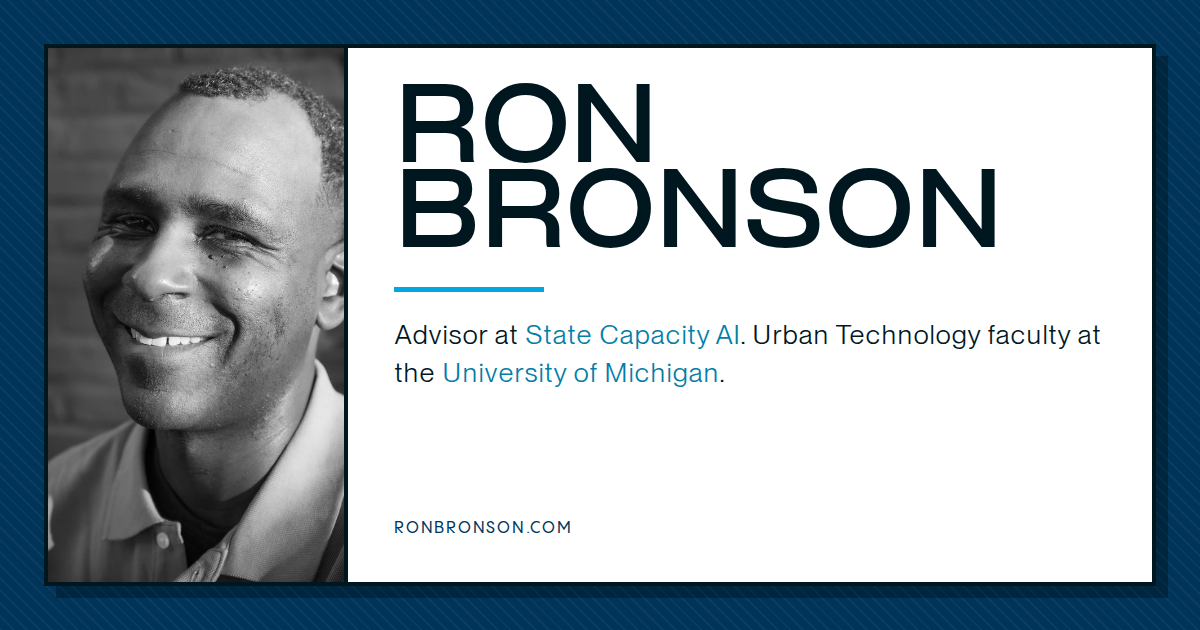
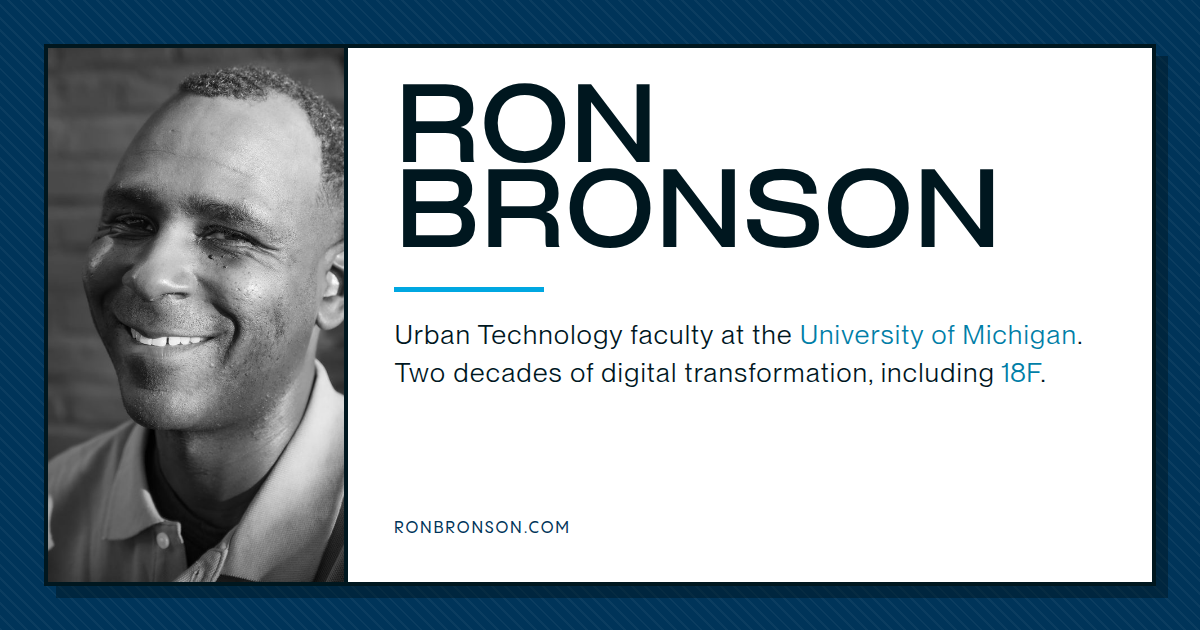
Drop State Capacity AI from the bio; add closedtab; untitle the bio module
State Capacity AI is a silent advisory role and should not have been on the
page. It was in four places, not one: the bio, <meta name="description">, the
OG/Twitter descriptions, and baked into the pixels of assets/og.png via
assets/og.html, where the card read "Advisor at State Capacity AI". All four
are updated and the card is regenerated. The occupant.ee link goes with it.

The bio module loses its header bar. It's the first thing under the masthead,
so "Introduction" only named what the reader could already see; it's now
.mod.lede — a module with a body and no title — set a step larger than .blurb.

Adds closedtab, the npm package, as its own module. This is what the year list
had no room for and the reason it came out. Copy is from the package's own npm
description and README.

The bio itself is still a holding pattern: the meta description in first
person, minus the removed clause. Two things can only come from Ron and are
left as a commented TK rather than guessed at — his own wording, and what his
role at gpo.delivery (the Global Office of Public Delivery) actually is.

Also fixes the regeneration command in og.html, which carried a
deviceScaleFactor:2 that writes a 2400x1260 file while og:image:width and
og:image:height declare 1200x630. The committed card was 1200x630, so the
documented command had not been the one used. Drops the now-unused .stamp
rule, left over with the datestamped module it belonged to.
[…]

diff --git a/index.html b/index.html
@@ -4,7 +4,7 @@
 <meta charset="utf-8" />
 <meta name="viewport" content="width=device-width, initial-scale=1" />
 <title>Ron Bronson</title>
-<meta name="description" content="Ron Bronson is an advisor at State Capacity AI, where he designed a consumer price index and labor tracker for AI spend, and a part-time Urban Technology faculty member at the University of Michigan Taubman College. Two decades leading digital transformation, including heading the design practice at 18F." />
+<meta name="description" content="Ron Bronson is a part-time Urban Technology faculty member at the University of Michigan Taubman College. Two decades leading digital transformation, including heading the design practice at 18F." />
 <link rel="canonical" href="https://ronbronson.com/" />
 
 <!-- Social card. og.png is 1200×630 (1.91:1) and generated from assets/og.html —
@@ -16,19 +16,19 @@
 <meta property="og:url" content="https://ronbronson.com/" />
 <meta property="og:locale" content="en_US" />
 <meta property="og:title" content="Ron Bronson" />
-<meta property="og:description" content="Advisor at State Capacity AI. Urban Technology faculty at the University of Michigan. Two decades leading digital transformation, including heading the design practice at 18F." />
+<meta property="og:description" content="Urban Technology faculty at the University of Michigan. Two decades leading digital transformation, including heading the design practice at 18F." />
 <meta property="og:image" content="https://ronbronson.com/assets/og.png" />
 <meta property="og:image:type" content="image/png" />
 <meta property="og:image:width" content="1200" />
 <meta property="og:image:height" content="630" />
-<meta property="og:image:alt" content="Ron Bronson — advisor at State Capacity AI and Urban Technology faculty at the University of Michigan." />
+<meta property="og:image:alt" content="Ron Bronson — Urban Technology faculty at the University of Michigan." />
 <meta property="profile:first_name" content="Ron" />
 <meta property="profile:last_name" content="Bronson" />
 <meta name="twitter:card" content="summary_large_image" />
 <meta name="twitter:title" content="Ron Bronson" />
-<meta name="twitter:description" content="Advisor at State Capacity AI. Urban Technology faculty at the University of Michigan. Two decades leading digital transformation, including heading the design practice at 18F." />
+<meta name="twitter:description" content="Urban Technology faculty at the University of Michigan. Two decades leading digital transformation, including heading the design practice at 18F." />
 <meta name="twitter:image" content="https://ronbronson.com/assets/og.png" />
-<meta name="twitter:image:alt" content="Ron Bronson — advisor at State Capacity AI and Urban Technology faculty at the University of Michigan." />
+<meta name="twitter:image:alt" content="Ron Bronson — Urban Technology faculty at the University of Michigan." />
 <link rel="preload" as="font" type="font/woff2" href="assets/fonts/MTL/PPNeueMontrealText-Book.woff2" crossorigin />
 <link rel="icon" type="image/svg+xml" href="assets/favicon.svg" />
 <link rel="icon" href="assets/favicon.ico" sizes="any" />
@@ -191,13 +191,15 @@
     width: 7px; height: 7px; background: var(--accent);
   }
 
-  /* Date stamp under a module header. */
-  .stamp {
-    display: block; margin: 0 0 clamp(11px, 1.5vw, 15px);
-    font-family: var(--ui); font-weight: 500;
-    font-size: 11.5px; letter-spacing: .1em; text-transform: uppercase;
-    color: var(--ink-2);
-  }
+  /* ── the lede ───────────────────────────────────────────────────────
+     The bio, and deliberately the only module with no header bar. It is
+     the first thing under the masthead, so a label would only name what
+     the reader can already see — you land on the site and you are
+     reading it. Set a step larger than .blurb for the same reason.
+     ──────────────────────────────────────────────────────────────── */
+  .lede .mod__b { padding: clamp(16px, 2.2vw, 25px); }
+  .lede p { margin: 0 0 .7em; font-size: clamp(17px, 1.35vw, 20px); line-height: 1.5; }
+  .lede p:last-child { margin-bottom: 0; }
 
   /* ── prose ──────────────────────────────────────────────────────────
      Short paragraphs, a few per module. Sized down from the old bio: the
@@ -437,22 +439,43 @@
 <!-- ══════════ MAIN ══════════ -->
     <div class="main main--top">
 
-      <!-- Replaces "2026 So Far", which went stale between updates and always
-           read as an incomplete list of the year. An introduction doesn't
-           expire, so nothing here should be datestamped or enumerated — if a
+      <!-- The bio. Replaces "2026 So Far", which went stale between updates and
+           always read as an incomplete list of the year. A bio has neither
+           problem, so nothing here gets a datestamp or a bullet count — if a
            line needs a year on it, it belongs on .design or .dev instead.
-           Copy is Ron's own framing, reflowed from the meta/OG description
-           into first person; keep the two in sync when either changes. -->
-      <div class="mod">
-        <h2 class="mod__t">Introduction</h2>
-        <div class="mod__b blurb">
-          <p>I&rsquo;m an advisor at
-            <a href="https://occupant.ee/indices">State Capacity AI</a>, where I designed a
-            consumer price index and labor tracker for AI spend, and part-time
+
+           No header bar on purpose: it's the first thing under the masthead
+           and titling it only named what the reader could already see.
+
+           TK — RON'S COPY. The two paragraphs below are a holding pattern, not
+           the bio: they're the existing meta/OG description turned into first
+           person, minus State Capacity AI. Two things are missing and can only
+           come from Ron, so they are not drafted here:
+             · gpo.delivery (Global Office of Public Delivery) — the current
+               engagement. Needs his one line on what the role actually is.
+             · State Capacity AI is a *silent* advisory role. It came out of the
+               bio, the meta tags and the social card. Don't reinstate it. -->
+      <div class="mod lede">
+        <div class="mod__b">
+          <p>I&rsquo;m part-time
             <a href="https://taubmancollege.umich.edu/academics/urban-and-regional-planning/bachelor-of-science-in-urban-technology/">Urban
             Technology</a> faculty at the University of Michigan&rsquo;s Taubman College.</p>
           <p>Two decades leading digital transformation, including heading the design
             practice at 18F.</p>
+        </div>
+      </div>
+
+      <!-- The reason "2026 So Far" came out: this had no place in a dated list.
+           Copy is Ron's own, from the package README and its npm description. -->
+      <div class="mod">
+        <h2 class="mod__t">closedtab</h2>
+        <div class="mod__b blurb">
+          <p>A shared record for human-agent teams. Review the work your AI agents do:
+            scaffold an Agent Action Record &mdash; Intent, Action, Judgment, Deviation,
+            Consequence, Change &mdash; score it, and reconcile it against a trace of what
+            the agent actually did. CLI + MCP.</p>
+          <p><a href="https://www.npmjs.com/package/closedtab">npm</a> &nbsp;&middot;&nbsp;
+            <a href="https://github.com/quarterback/closedtab">GitHub</a></p>
         </div>
       </div>
 

diff --git a/assets/og.html b/assets/og.html
@@ -12,12 +12,15 @@
     python3 -m http.server 8080 &
     node -e "const {chromium}=require('playwright');(async()=>{
       const b=await chromium.launch();
-      const p=await b.newPage({viewport:{width:1200,height:630},deviceScaleFactor:2});
+      const p=await b.newPage({viewport:{width:1200,height:630}});
       await p.goto('http://localhost:8080/assets/og.html',{waitUntil:'networkidle'});
       await p.screenshot({path:'assets/og.png'});await b.close();})()"
 
   Keep it 1200×630. That is 1.91:1, what summary_large_image crops to; the
-  portrait alone is 4:5 and loses Ron's head at that ratio.
+  portrait alone is 4:5 and loses Ron's head at that ratio. No
+  deviceScaleFactor — this command used to carry a 2, which writes a
+  2400×1260 file while og:image:width/height in index.html still declare
+  1200×630. Change one and you have to change the other.
 -->
 <style>
   @font-face { font-family:"PP Formula"; src:url("fonts/PPFormula-ExtendedBold.woff") format("woff"); font-weight:700; }
@@ -68,7 +71,12 @@
     <div class="body">
       <h1>Ron<br />Bronson</h1>
       <div class="rule"></div>
-      <p class="lede">Advisor at <b>State Capacity AI</b>. Urban Technology faculty at the <b>University of Michigan</b>.</p>
+      <!-- Keep this in step with the bio in index.html and the meta/OG
+           descriptions — four copies of one paragraph, and only this one is
+           baked into a PNG, so it's the one that silently goes stale.
+           State Capacity AI was removed here deliberately: it's a silent
+           advisory role. Don't put it back. -->
+      <p class="lede">Urban Technology faculty at the <b>University of Michigan</b>. Two decades of digital transformation, including <b>18F</b>.</p>
       <p class="foot">ronbronson.com</p>
     </div>
   </div>

diff --git a/README.md b/README.md
@@ -16,9 +16,10 @@ count; if an item needs a year on it, it belongs on `.design` or `.dev` instead.
 Its only job is to orient someone who has never met Ron and send them onward.
 Four things, in this order, and nothing else:
 
-1. **Introduction** — two paragraphs, first person, no dates. Role and institution, then
-   the two-decade line. Keep it in sync with `<meta name="description">` and the OG/Twitter
-   descriptions, which carry the same framing in third person.
+1. **The bio** — first person, no dates, and **no header bar**. It is the first thing under
+   the masthead; labelling it only named what the reader could already see. `.mod.lede`,
+   a module with a `.mod__b` and no `.mod__t`. Keep it in sync with
+   `<meta name="description">`, the OG/Twitter descriptions, and `assets/og.html`.
 2. **Photos** — evidence, not decoration, and **uncaptioned**. Each one carries an
    institution on its face: Design For The Public, 18F at GSA, Taubman College, AIGA
    Portland, the Oregon Athletic Coaches Association, a championship team. Pick images
@@ -39,9 +40,19 @@ it doesn't add anything a stranger needs in the first two minutes, and it turns 
 into an inventory. Send people onward to it instead.
 
 **All copy is Ron's.** Descriptions, subtitles, and section text drafted on his behalf
-get rejected — leave slots empty (or commented) until he supplies the words. The
-`Introduction` paragraphs are the existing meta/OG description turned into first person,
-not new writing; they're a placeholder for Ron's own wording, not a licence to draft more.
+get rejected — leave slots empty (or commented) until he supplies the words. The bio
+paragraphs are the existing meta/OG description turned into first person, not new writing;
+they're a holding pattern until Ron sends his, not a licence to draft more. The `closedtab`
+copy is his too, from the package's npm description and README.
+
+### Two standing facts about the bio
+
+- **State Capacity AI is a silent advisory role.** It was on the page, in all three meta
+  descriptions and baked into `assets/og.png`, and it is out of all four. Don't reinstate
+  it anywhere, and don't link `occupant.ee` from the front door.
+- **gpo.delivery — the Global Office of Public Delivery — is the current engagement**, and
+  it is not on the page yet because nobody but Ron can say what the role is. There is a
+  commented TK in `index.html` holding the slot. Don't guess at a title to fill it.
 
 Cut and not to be reinstated: an "About Me" essay, a "Currently" card grid, board service
 (a résumé grid of orgs and date ranges), community radio, and the four prose sections
@@ -61,7 +72,8 @@ Module order in `.main`, and the reasoning behind it:
 
 | Module | Why it sits there |
 | --- | --- |
-| Introduction | `.blurb` prose. Undated on purpose — see above. |
+| *(the bio)* | `.mod.lede`. No header bar, undated on purpose — see above. |
+| closedtab | The npm package. The thing the year list had no room for. |
 | Design as Repair | The IxDA Oslo talk, embedded. |
 | My Sites | The four site links. Four doors, four `href`s. |
 | Now Playing | Podcasts. |
@@ -135,9 +147,14 @@ regeneration command in a comment at the top. **Regenerate it when the framing c
 the card carries its own one-line summary and nothing enforces a match with the page.
 
 The card, `<meta name="description">`, and the OG/Twitter descriptions carry the same
-State Capacity AI / Michigan framing as the `Introduction` module — third person there,
-first person on the page. They are now four copies of one paragraph; change one and change
-the rest, or the card will describe a page that no longer says that.
+Michigan / 18F framing as the bio — third person there, first person on the page. That is
+four copies of one paragraph, and **the card is the copy that goes stale silently**,
+because its text is baked into a PNG: it read "Advisor at State Capacity AI" for as long
+as it took someone to notice. Change one, change all four, and regenerate.
+
+The command in `og.html` carried a `deviceScaleFactor:2` that wrote a 2400×1260 file while
+`og:image:width` / `og:image:height` still declared 1200×630. It's been dropped. If you
+want the 2× card, update those two meta tags in the same commit.
 
 Don't point `og:image` at `profile.jpg`. It's 4:5, and `summary_large_image` crops to
 1.91:1 straight through Ron's forehead — which is what the card previously did.
